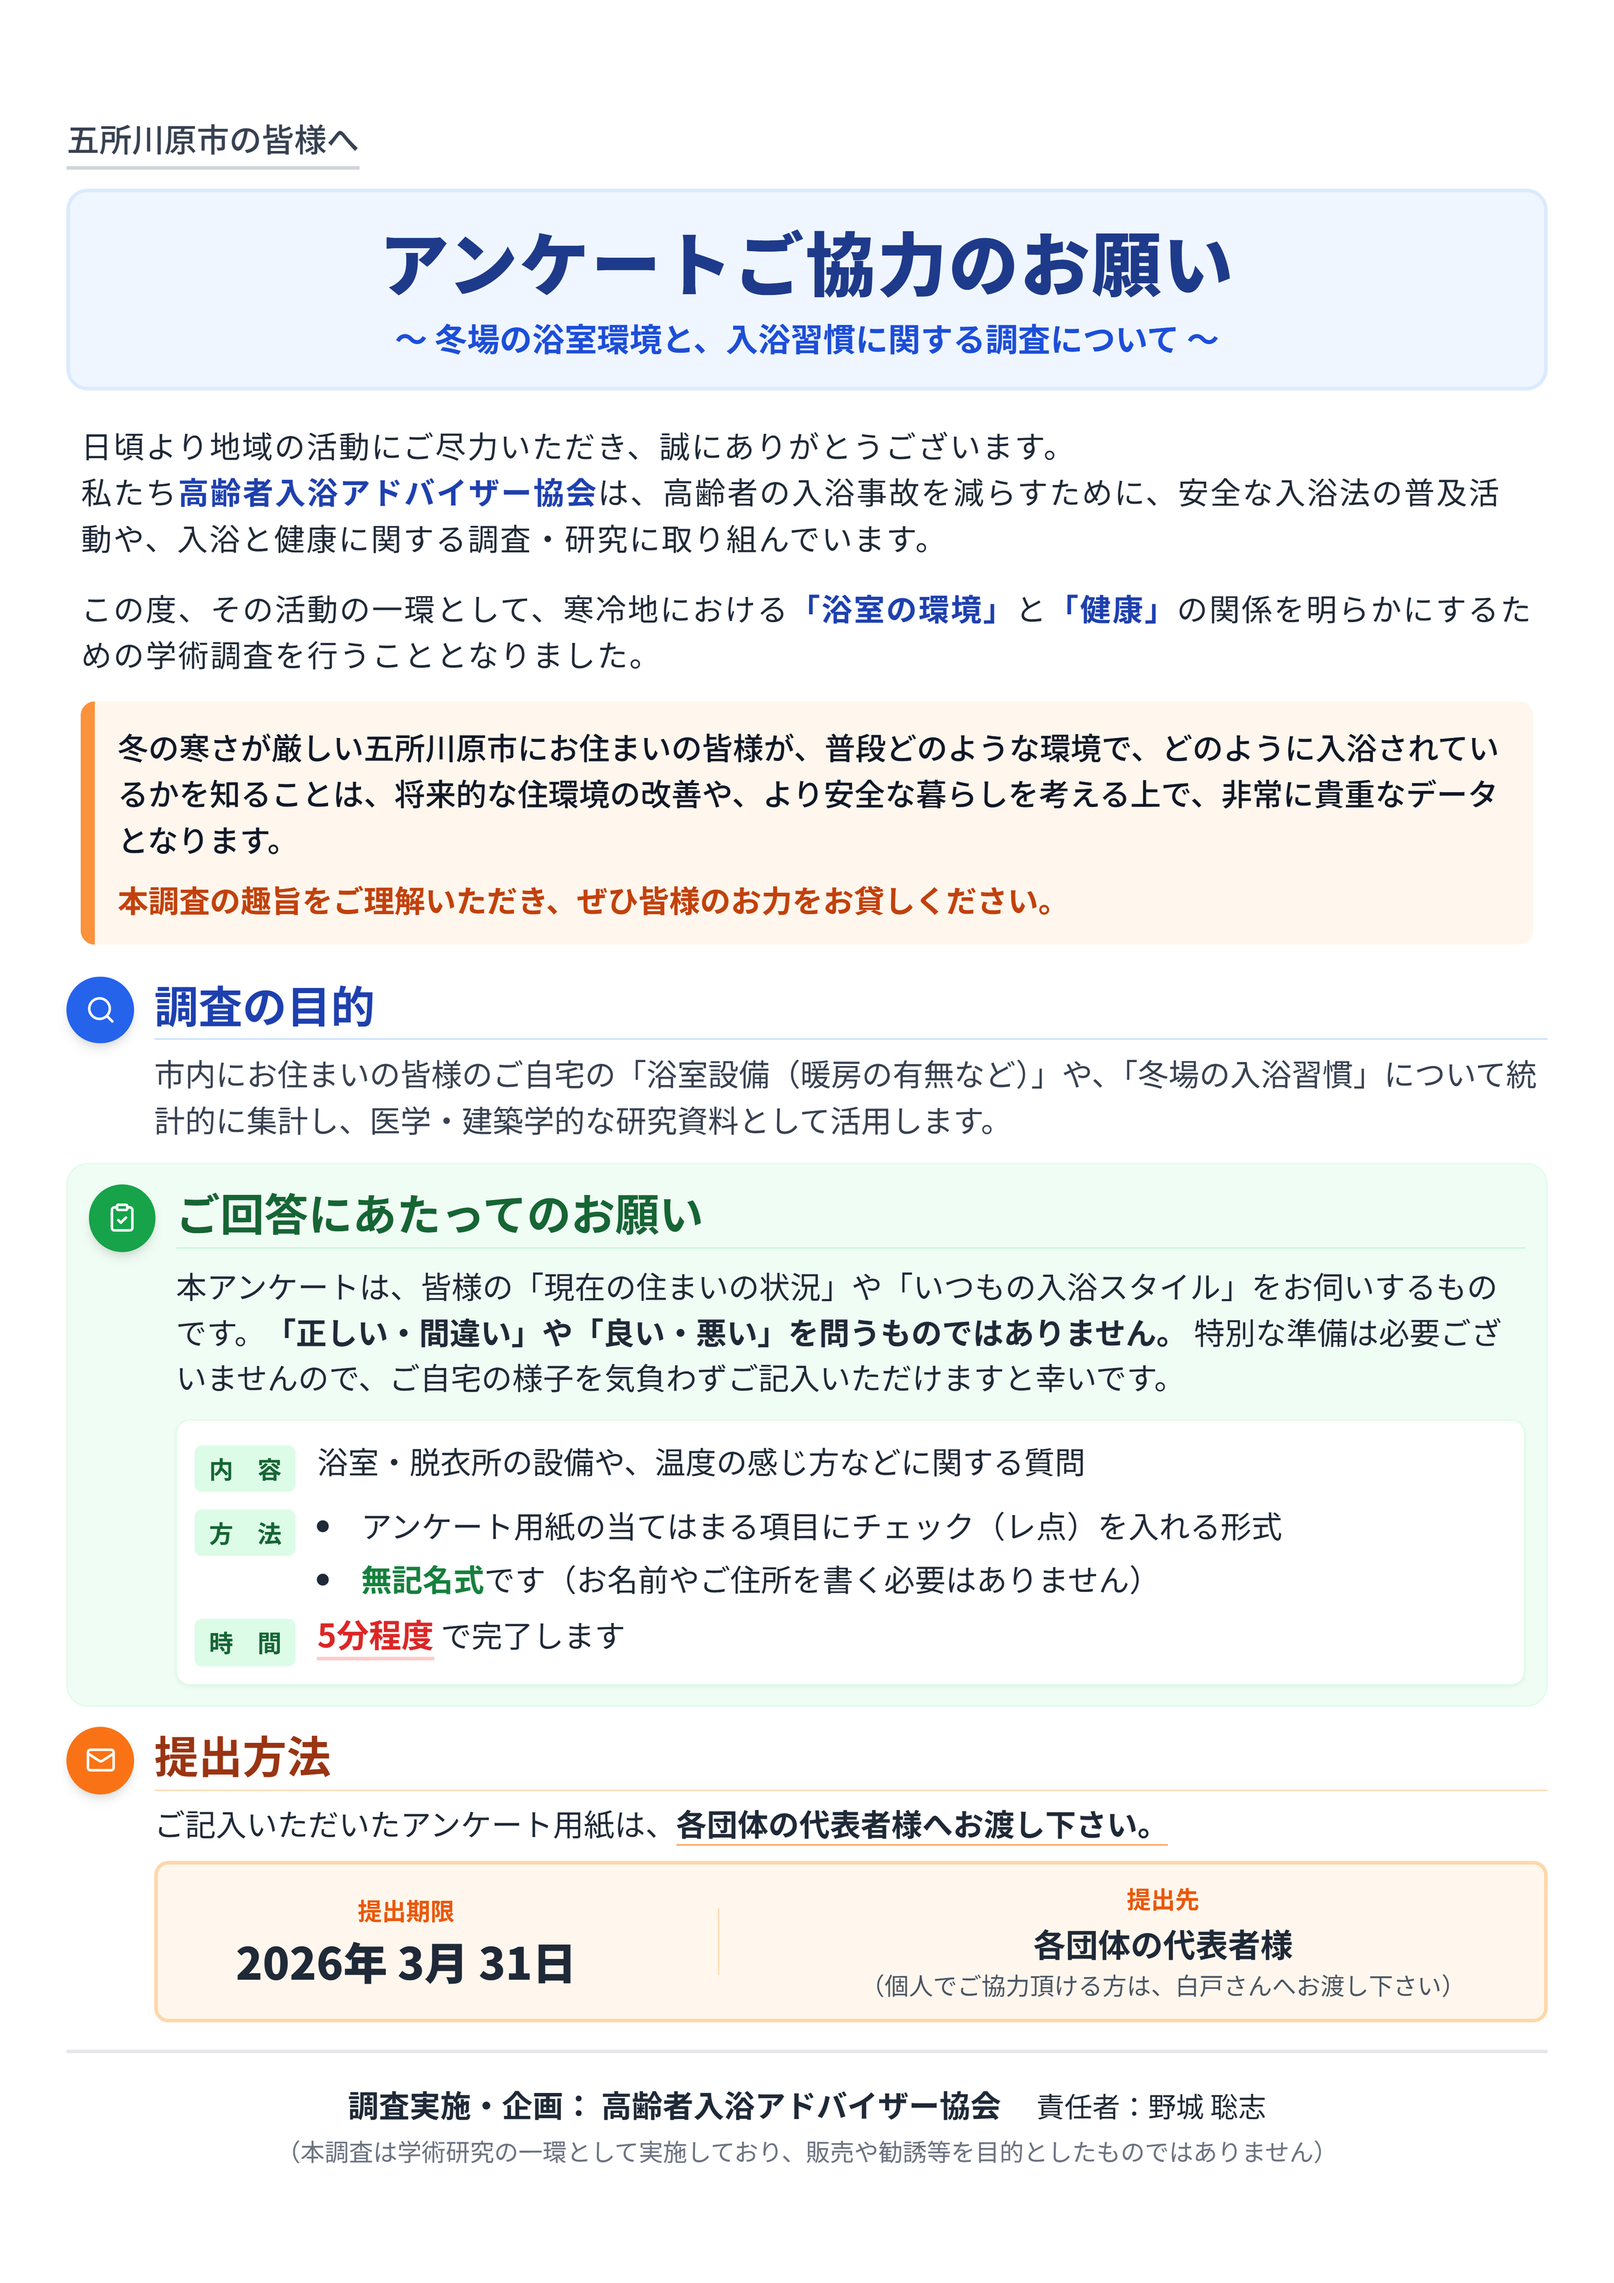
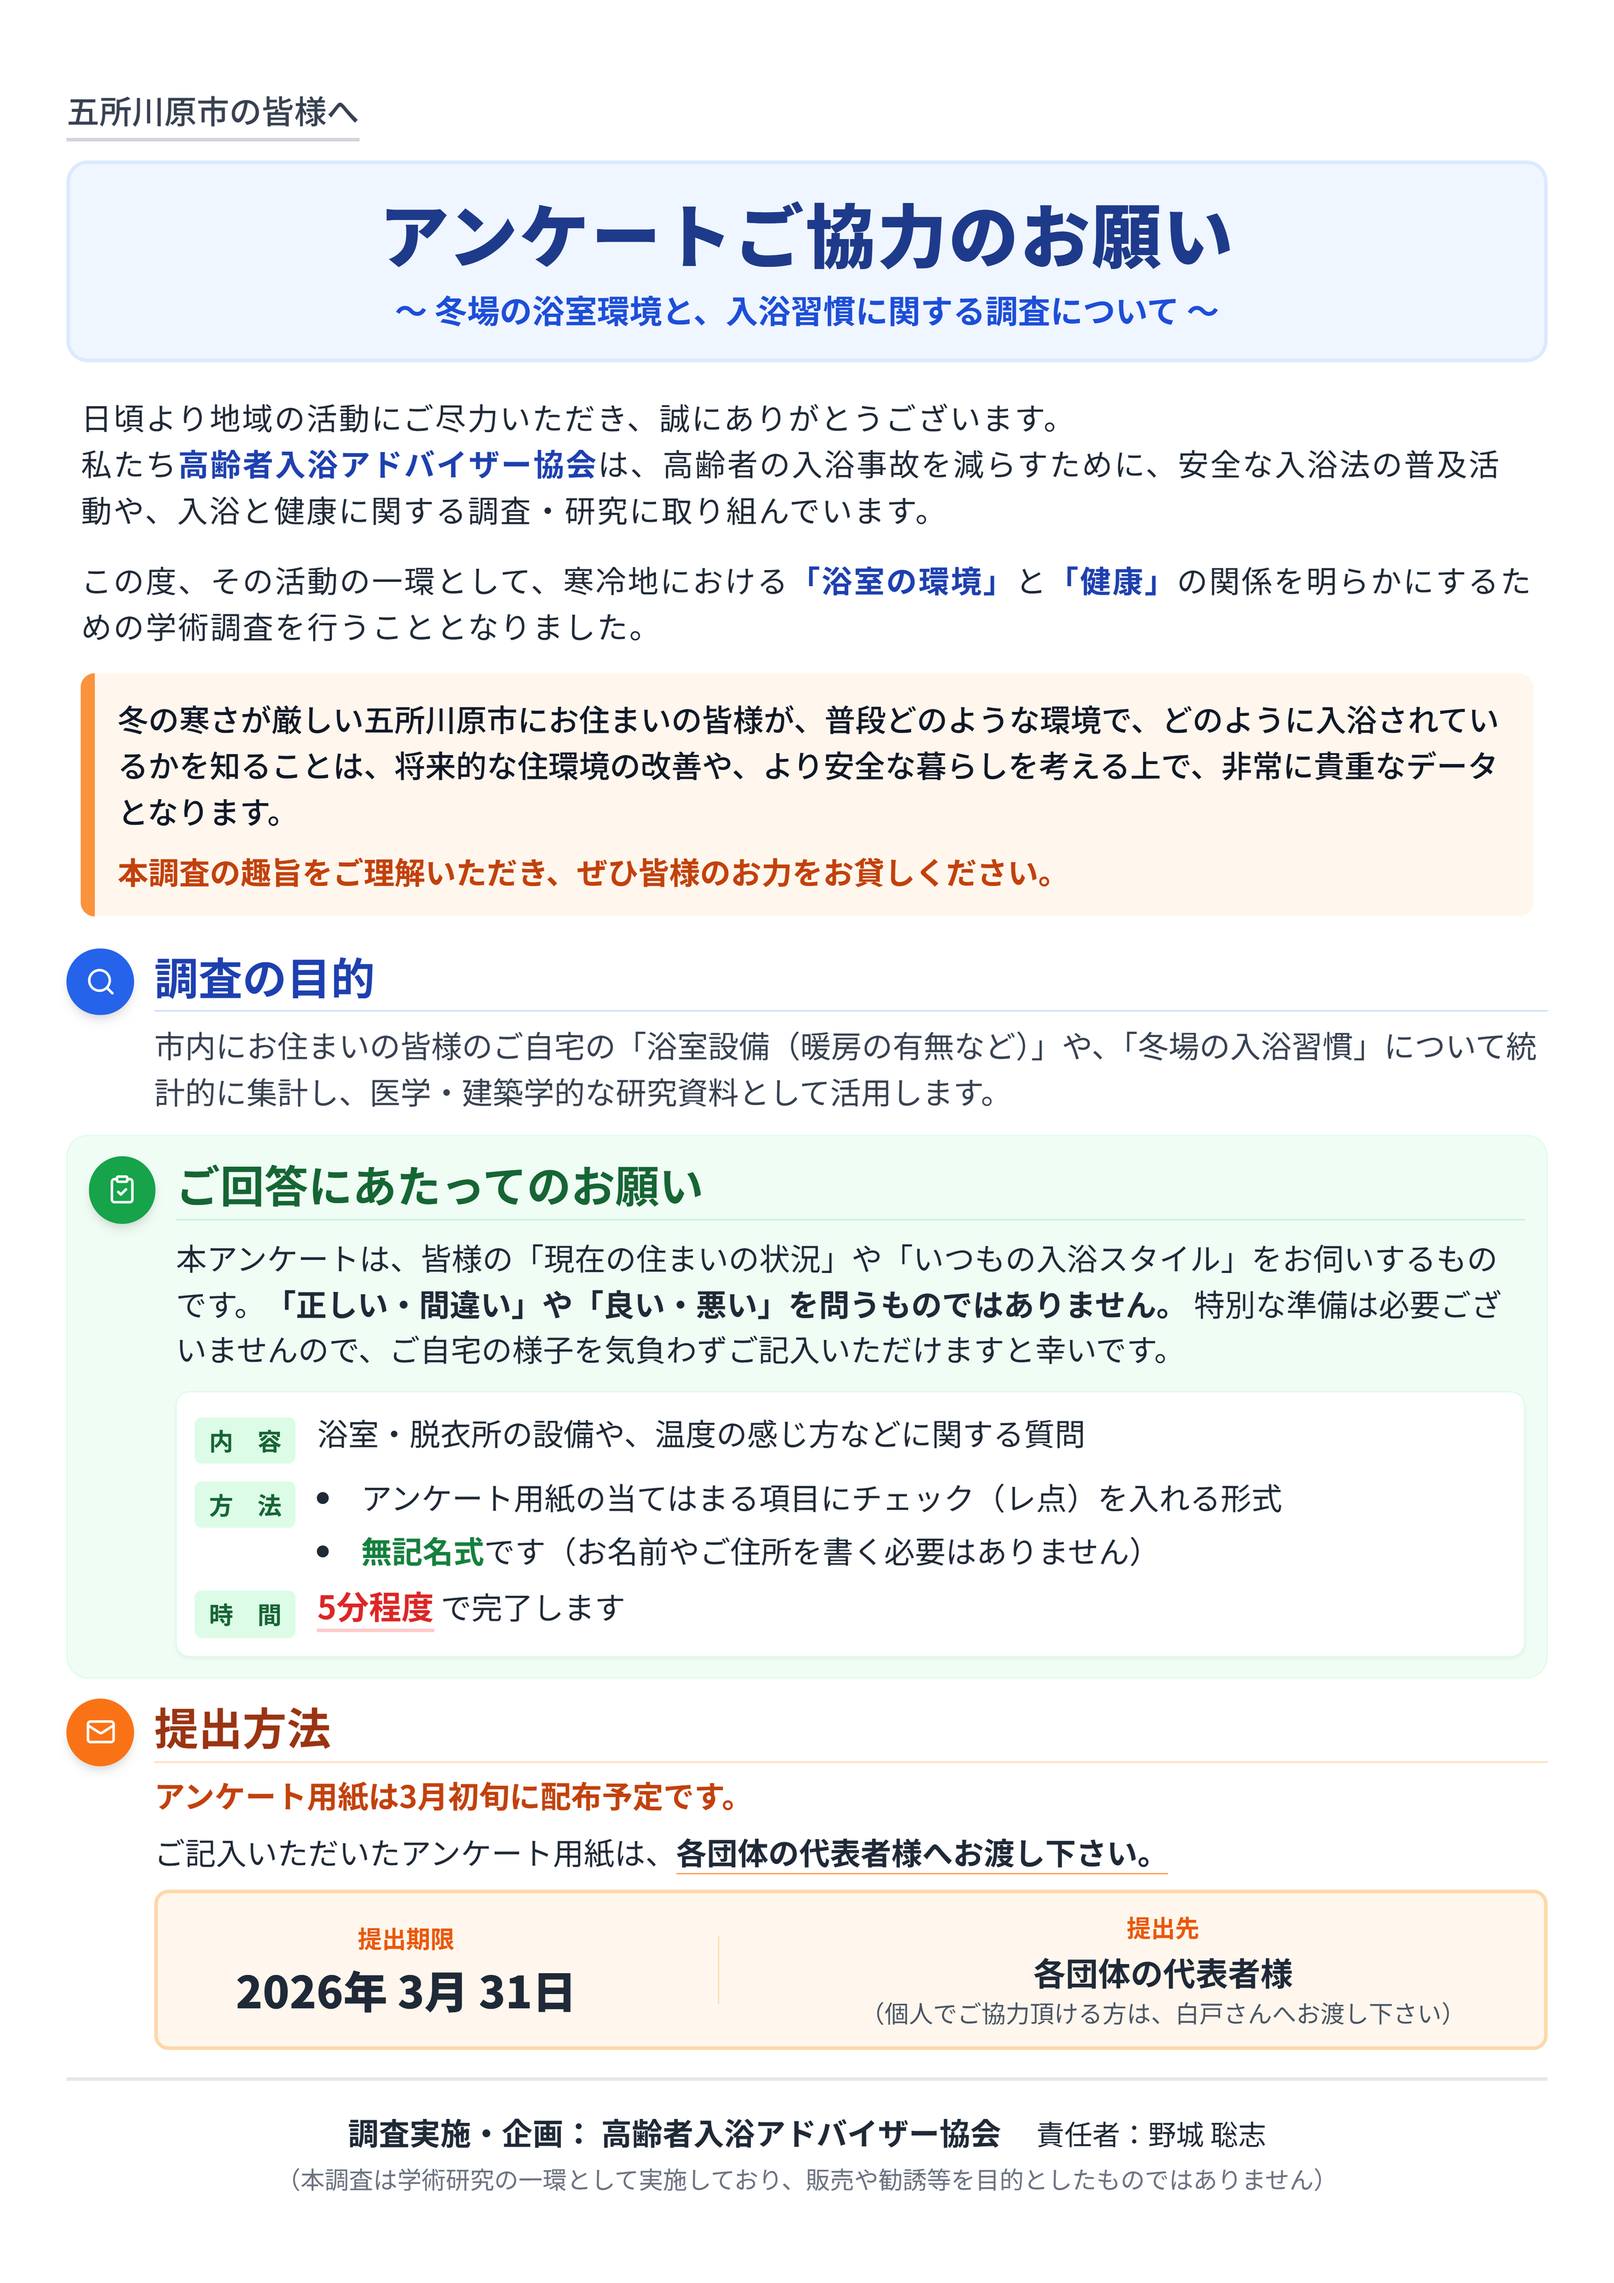
アンケート用紙の配布予定日を追加

diff --git a/deliverables/aomori_survey_ad.html b/deliverables/aomori_survey_ad.html
@@ -150,6 +150,9 @@
                     <h2 class="text-2xl font-bold text-orange-800 mb-2 flex items-center border-b border-orange-200 pb-1">
                         提出方法
                     </h2>
+                    <p class="text-lg font-bold text-orange-700 mb-2">
+                        アンケート用紙は3月初旬に配布予定です。
+                    </p>
                     <p class="text-lg text-gray-800 mb-3">
                         ご記入いただいたアンケート用紙は、<span class="font-bold border-b border-orange-400">各団体の代表者様へお渡し下さい。</span>
                     </p>
